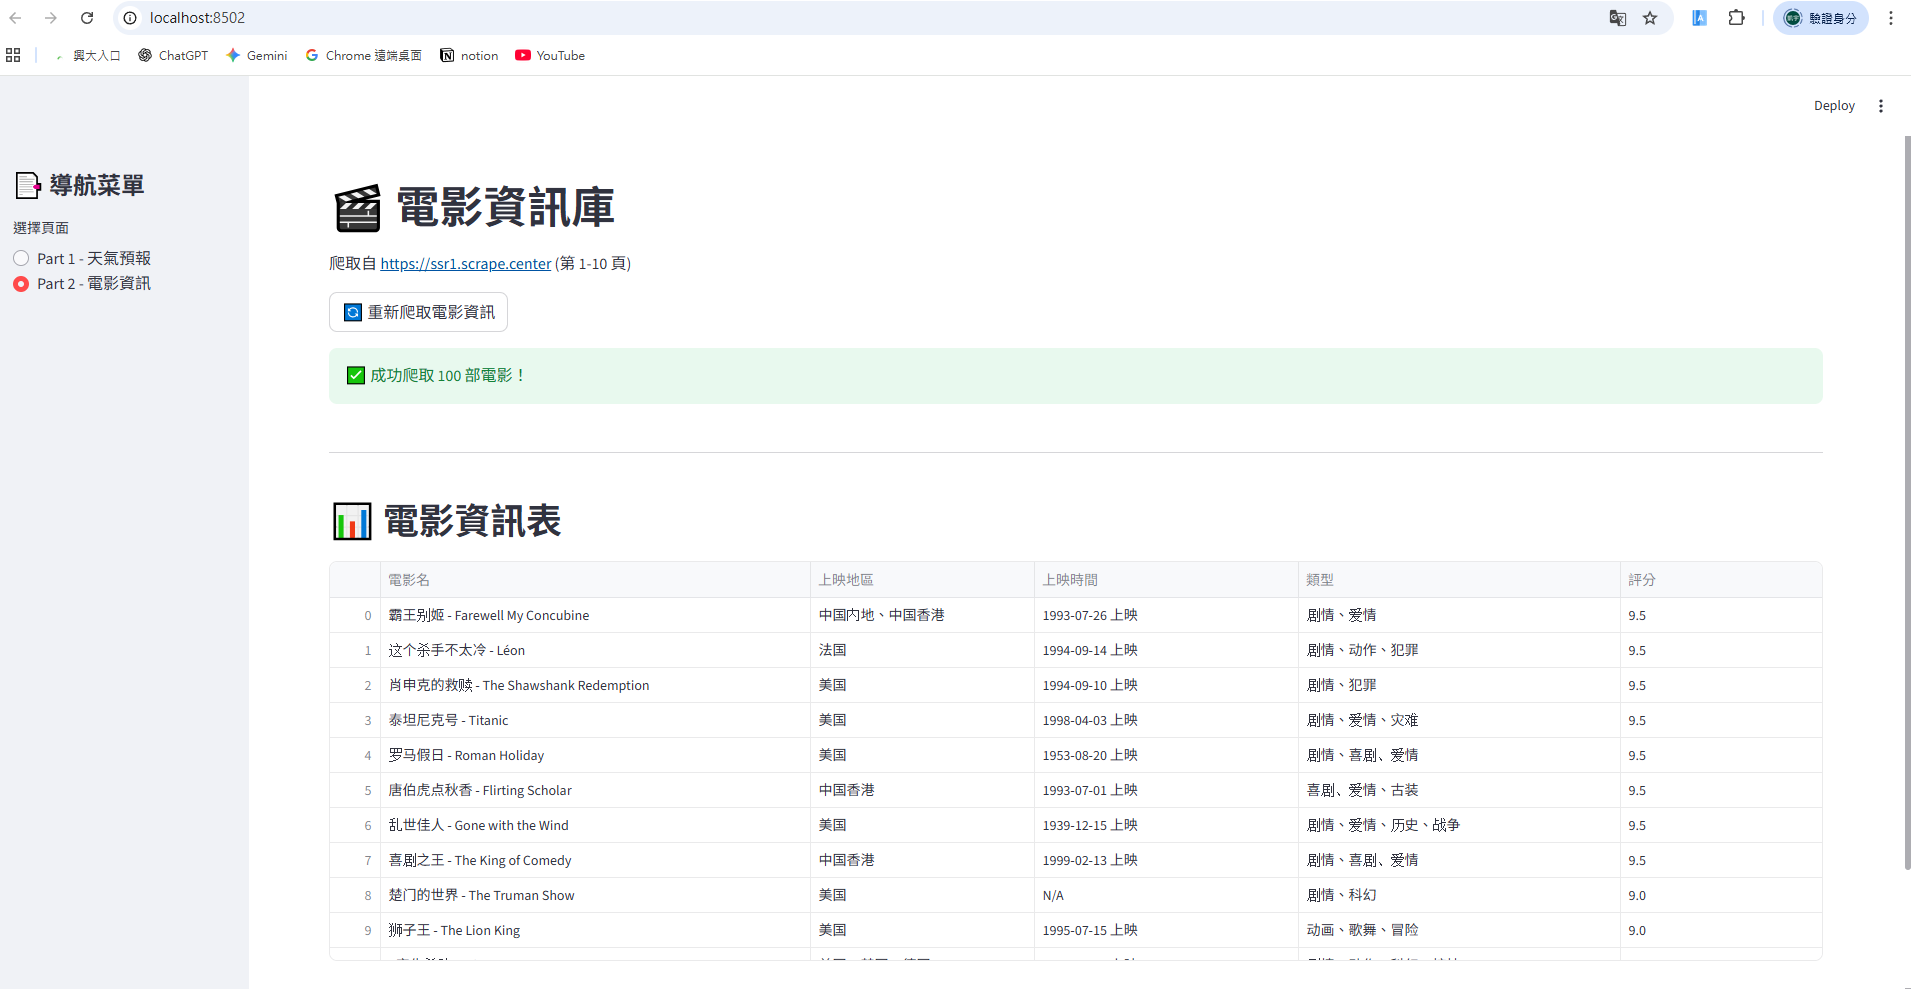
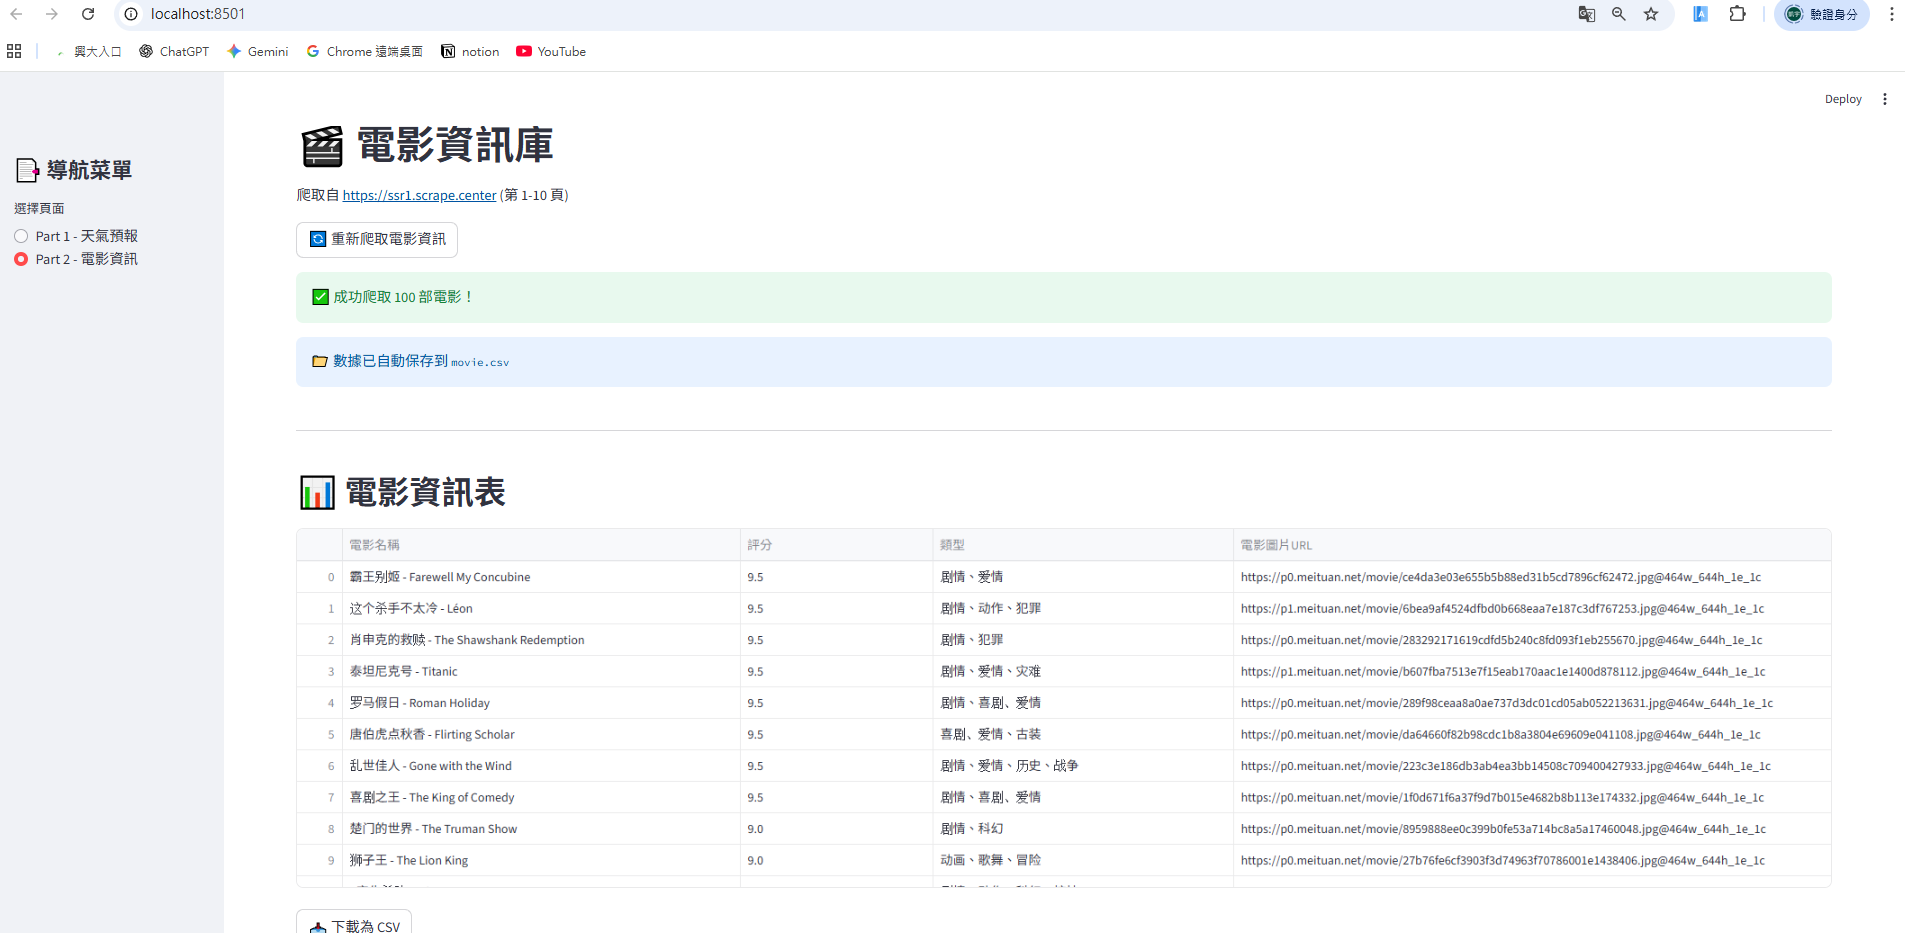
Update: Add CSV export for movie scraper and update app.py logic

diff --git a/app.py b/app.py
@@ -114,6 +114,7 @@ def plot_weather_chart(df, y_col, title, y_label):
 def scrape_movies() -> pd.DataFrame:
     """
     爬取電影資訊，頁數從 1 到 10
+    提取：電影名稱、評分、類型、電影圖片 URL
     """
     headers = {
         'User-Agent': 'Mozilla/5.0 (Windows NT 10.0; Win64; x64) AppleWebKit/537.36'
@@ -128,7 +129,7 @@ def scrape_movies() -> pd.DataFrame:
             url = base_url.format(page)
             progress_placeholder.info(f"正在爬取第 {page}/10 頁...")
             
-            response = requests.get(url, headers=headers, timeout=10)
+            response = requests.get(url, headers=headers, timeout=10, verify=False)
             response.encoding = 'utf-8'
             soup = BeautifulSoup(response.text, 'html.parser')
             
@@ -140,6 +141,10 @@ def scrape_movies() -> pd.DataFrame:
                     name_elem = item.find('h2')
                     name = name_elem.text.strip() if name_elem else 'N/A'
                     
+                    # 評分（從 p class="score" 提取）
+                    score_elem = item.find('p', class_='score')
+                    score = score_elem.text.strip() if score_elem else 'N/A'
+                    
                     # 類型（從 categories div 中的 button 內容提取）
                     categories_buttons = item.find('div', class_='categories')
                     categories_list = []
@@ -150,33 +155,15 @@ def scrape_movies() -> pd.DataFrame:
                                 categories_list.append(span.text.strip())
                     categories = '、'.join(categories_list) if categories_list else 'N/A'
                     
-                    # 上映地區和時間（從 info div 中提取）
-                    info_divs = item.find_all('div', class_='info')
-                    region = 'N/A'
-                    release_time = 'N/A'
-                    
-                    if len(info_divs) > 0:
-                        # 第一個 info div 包含地區和時間
-                        spans = info_divs[0].find_all('span')
-                        if len(spans) > 0:
-                            region = spans[0].text.strip()
-                    
-                    if len(info_divs) > 1:
-                        # 第二個 info div 包含上映日期
-                        span = info_divs[1].find('span')
-                        if span:
-                            release_time = span.text.strip()
-                    
-                    # 評分（從 p class="score" 提取）
-                    score_elem = item.find('p', class_='score')
-                    score = score_elem.text.strip() if score_elem else 'N/A'
+                    # 電影圖片 URL（從 img 標籤的 src 提取）
+                    img_elem = item.find('img', class_='cover')
+                    image_url = img_elem.get('src', 'N/A') if img_elem else 'N/A'
                     
                     movie_data = {
-                        '電影名': name,
-                        '上映地區': region,
-                        '上映時間': release_time,
+                        '電影名稱': name,
+                        '評分': score,
                         '類型': categories,
-                        '評分': score
+                        '電影圖片URL': image_url
                     }
                     
                     movies.append(movie_data)
@@ -267,9 +254,23 @@ def part2_movies():
     if not movies_df.empty:
         st.success(f"✅ 成功爬取 {len(movies_df)} 部電影！")
         
+        # 保存為 CSV
+        csv_file = os.path.join(BASE_DIR, 'movie.csv')
+        movies_df.to_csv(csv_file, index=False, encoding='utf-8-sig')
+        st.info(f"📁 數據已自動保存到 `movie.csv`")
+        
         st.markdown("---")
         st.header("📊 電影資訊表")
         st.dataframe(movies_df, use_container_width=True)
+        
+        # 提供 CSV 下載按鈕
+        csv_data = movies_df.to_csv(index=False, encoding='utf-8-sig')
+        st.download_button(
+            label="📥 下載為 CSV",
+            data=csv_data,
+            file_name="movie.csv",
+            mime="text/csv"
+        )
         
     else:
         st.error("無法爬取電影資訊，請檢查網路連線或稍後重試。")
